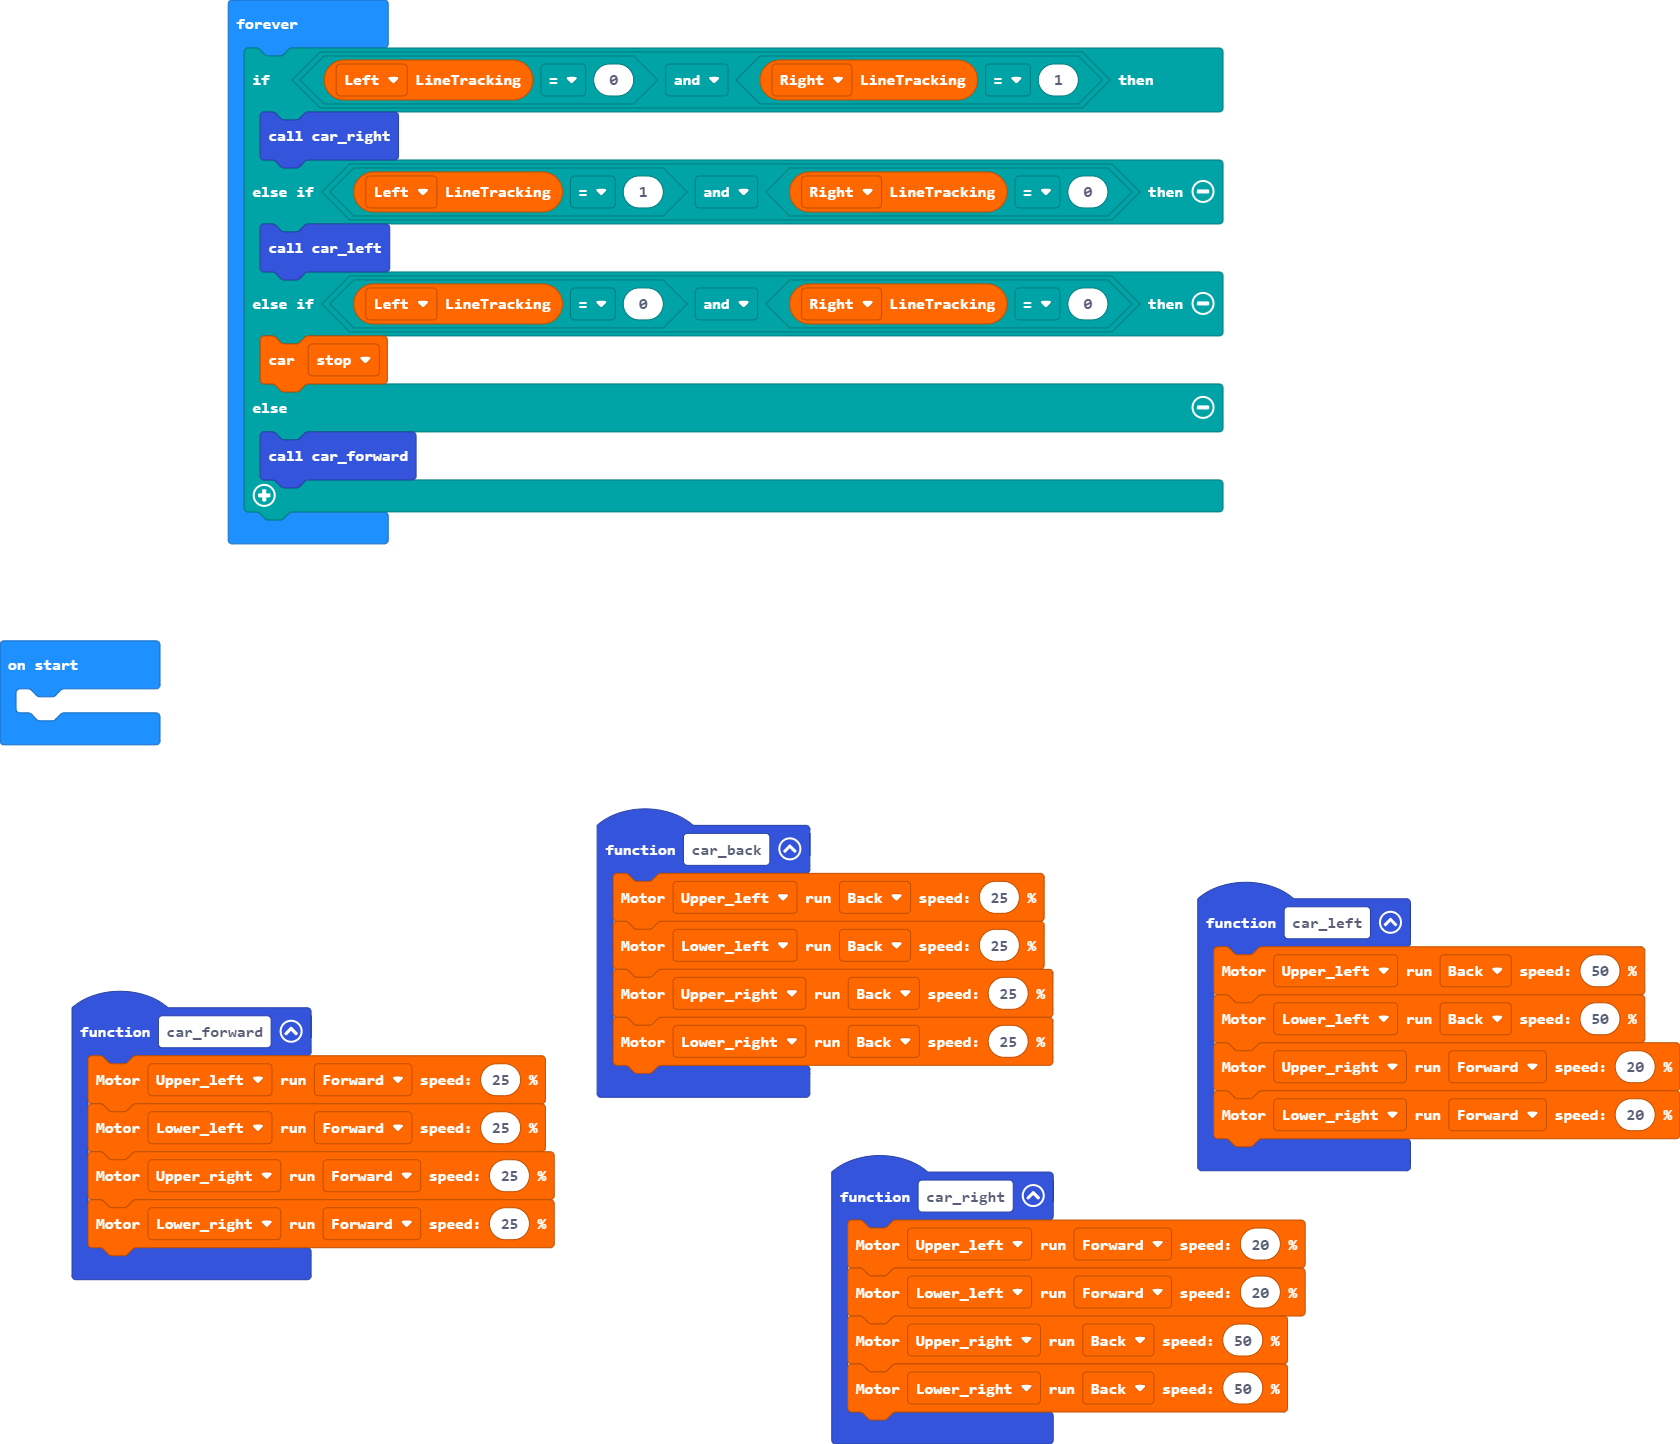
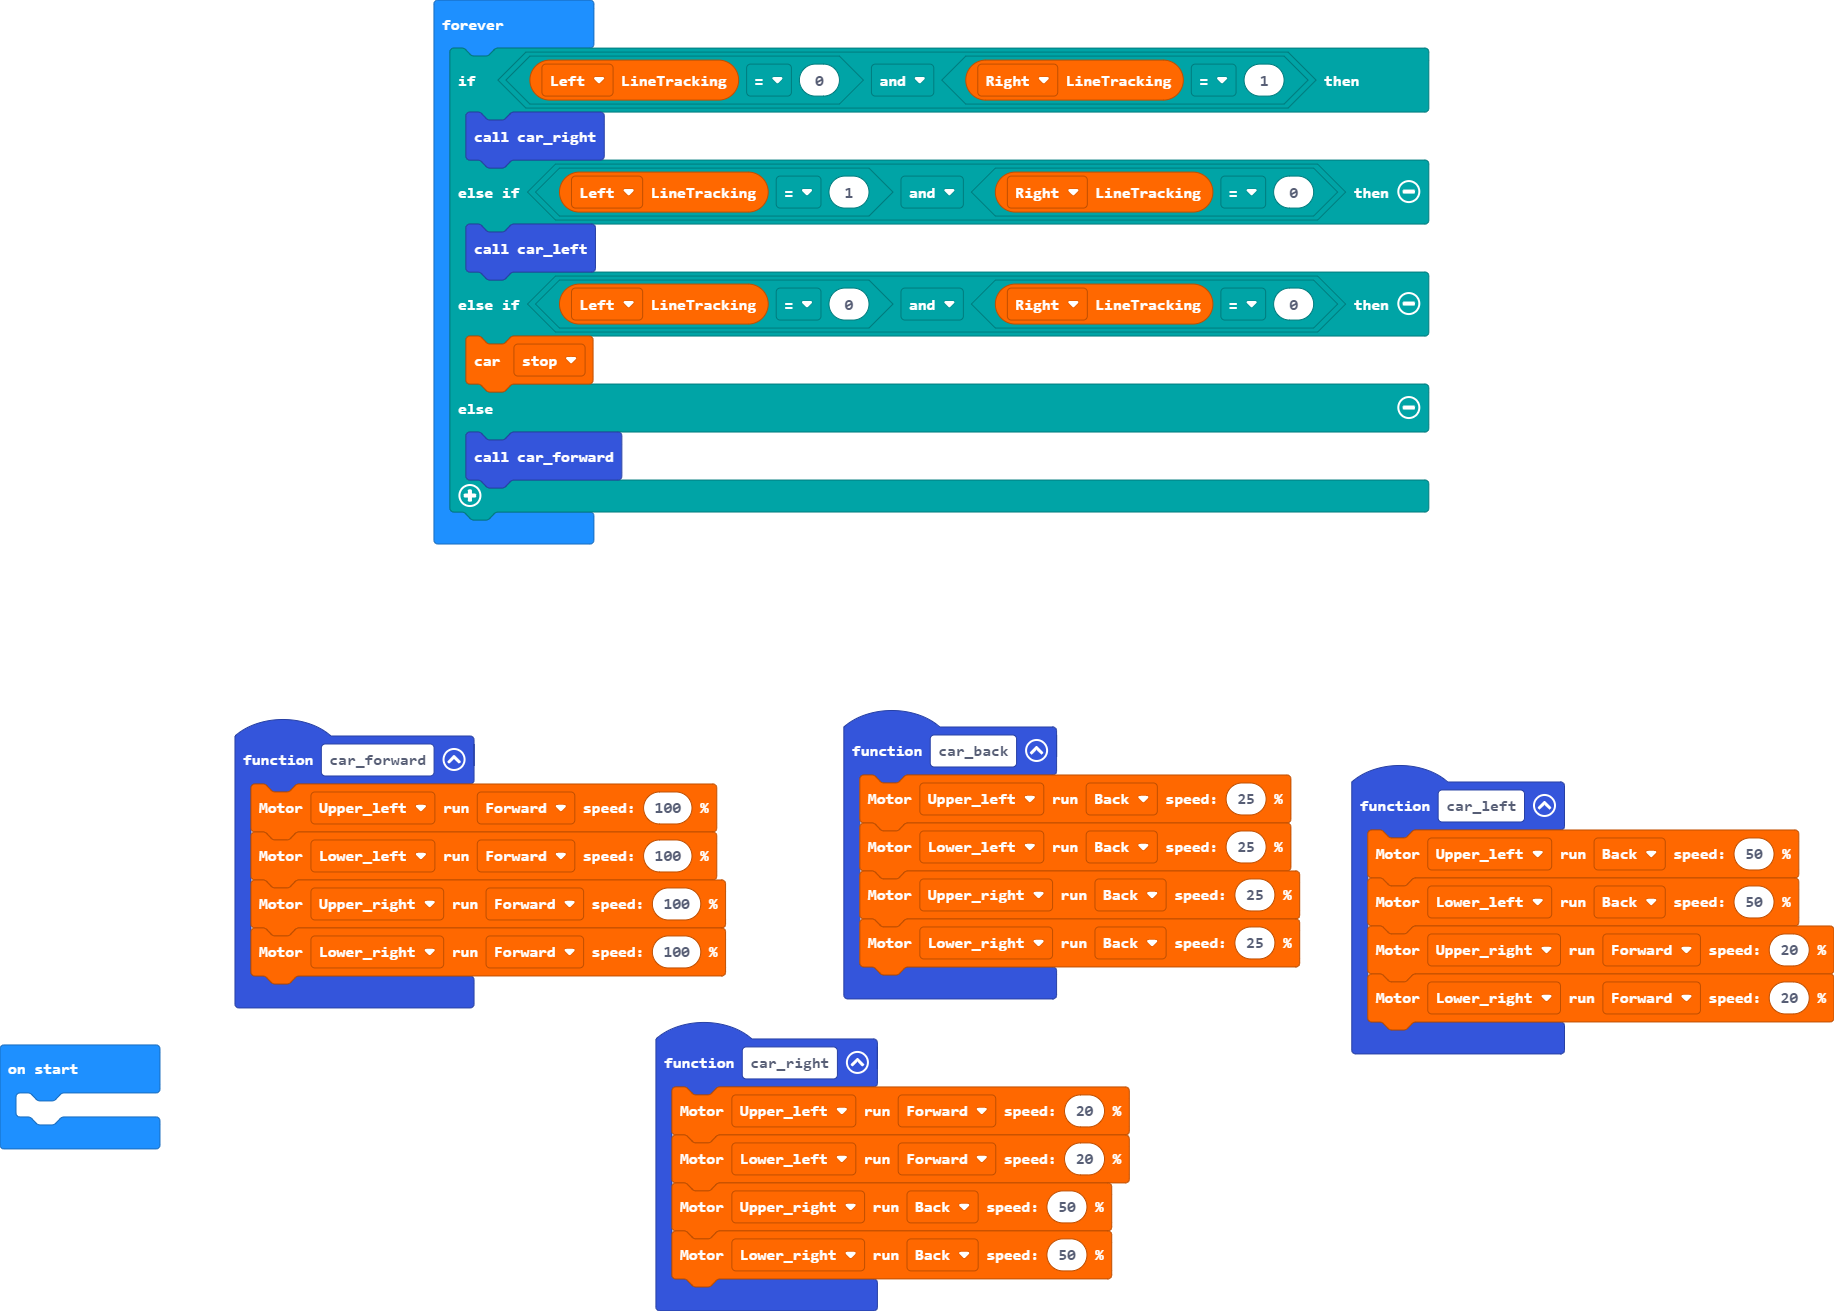
Update main.blocks, main.ts

diff --git a/main.ts b/main.ts
@@ -11,10 +11,10 @@ function car_left () {
     mecanumRobot.Motor(LR.Lower_right, MD.Forward, 20)
 }
 function car_forward () {
-    mecanumRobot.Motor(LR.Upper_left, MD.Forward, 25)
-    mecanumRobot.Motor(LR.Lower_left, MD.Forward, 25)
-    mecanumRobot.Motor(LR.Upper_right, MD.Forward, 25)
-    mecanumRobot.Motor(LR.Lower_right, MD.Forward, 25)
+    mecanumRobot.Motor(LR.Upper_left, MD.Forward, 100)
+    mecanumRobot.Motor(LR.Lower_left, MD.Forward, 100)
+    mecanumRobot.Motor(LR.Upper_right, MD.Forward, 100)
+    mecanumRobot.Motor(LR.Lower_right, MD.Forward, 100)
 }
 function car_right () {
     mecanumRobot.Motor(LR.Upper_left, MD.Forward, 20)
